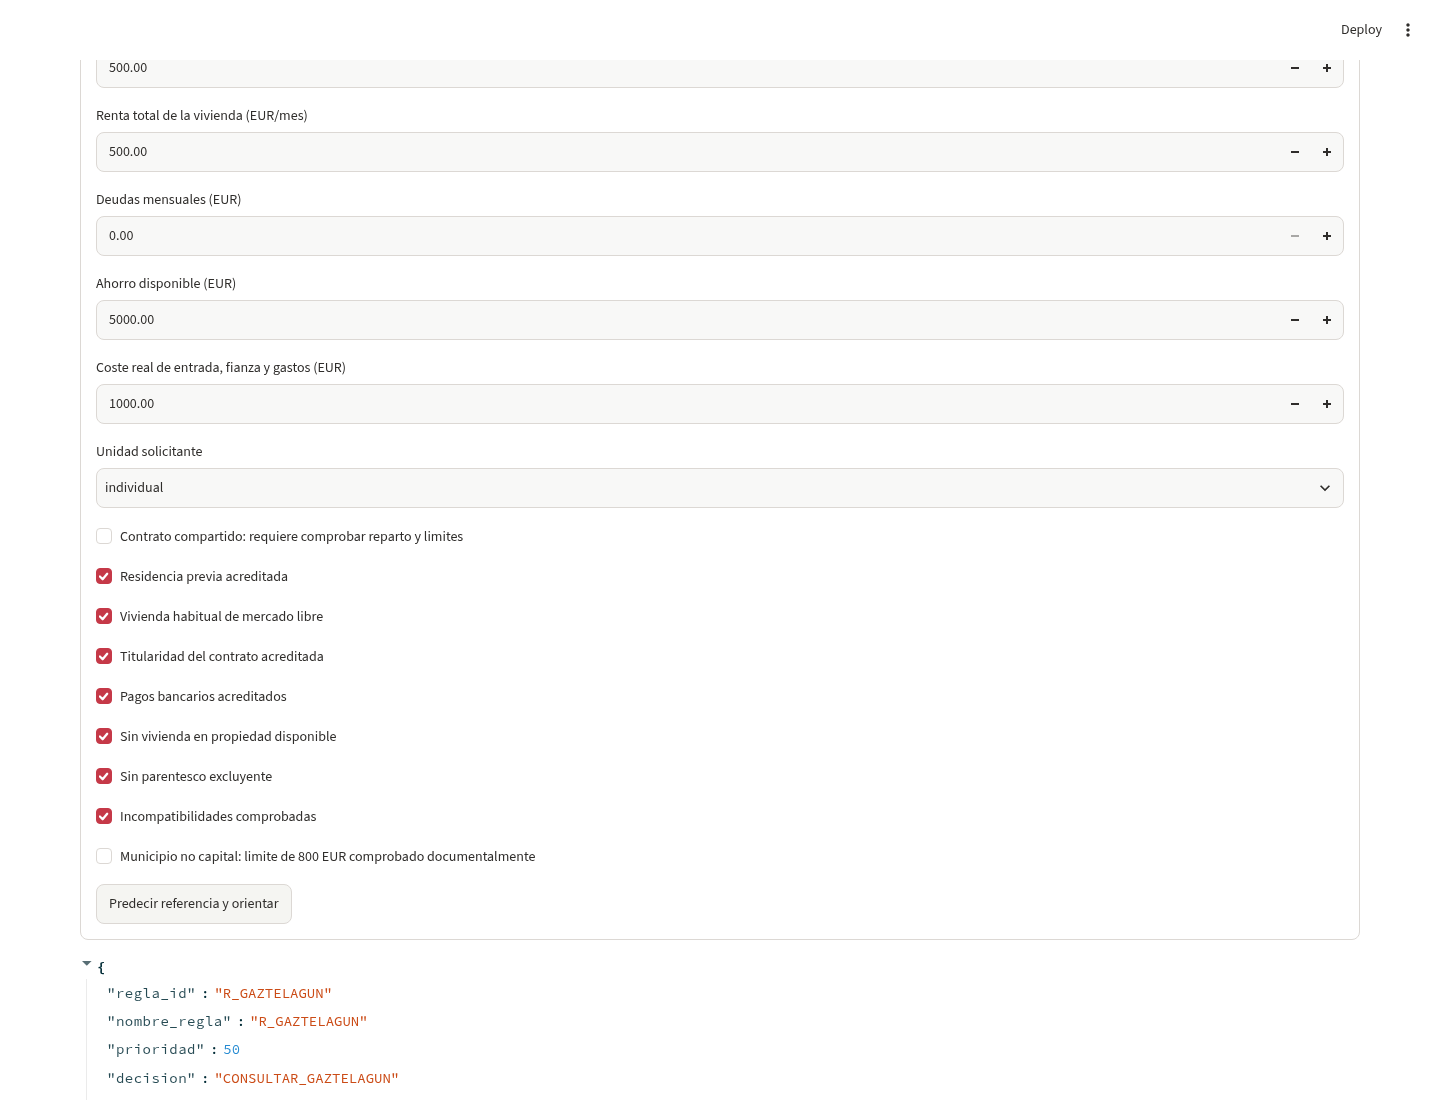
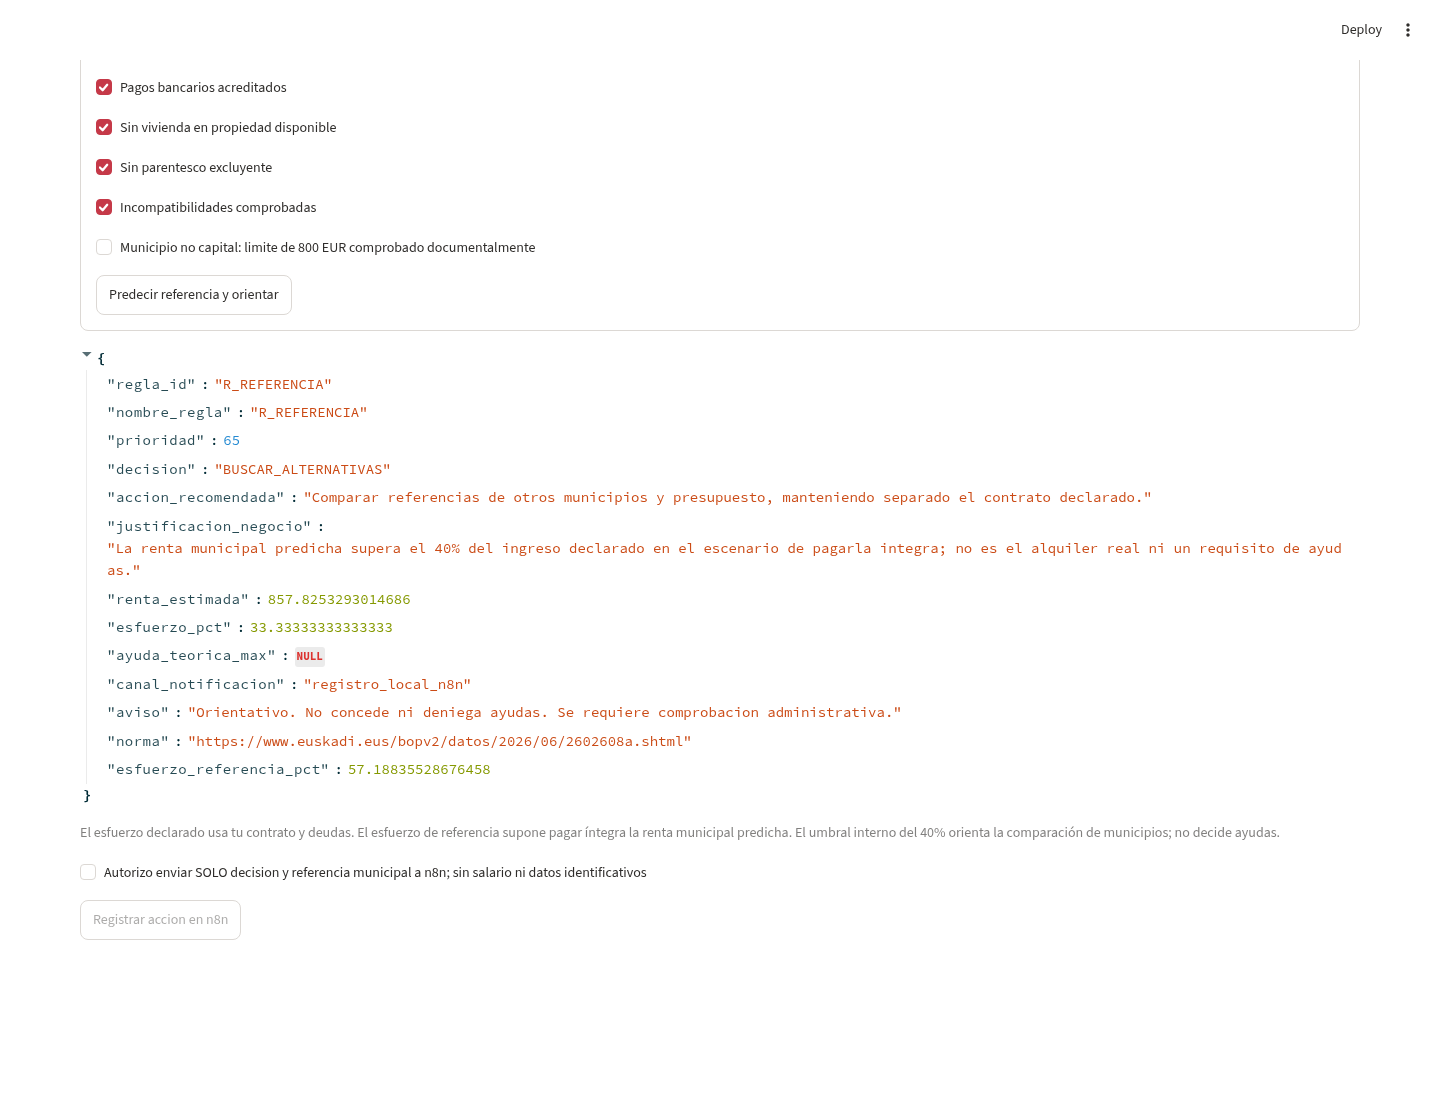
fix: leer capturas API en UTF-8 y conservar demostracion actual

diff --git a/scripts/capture_emal_api.py b/scripts/capture_emal_api.py
@@ -57,7 +57,7 @@ def capture(folder):
 
 def verified(folder):
     """Reinterpreta los bytes de API antes de transportar: falla ante alteraciones."""
-    folder=Path(folder);entries=json.loads((folder/'manifest.json').read_text())
+    folder=Path(folder);entries=json.loads((folder/'manifest.json').read_text(encoding='utf-8'))
     if {e['archivo'] for e in entries} != {'visor.html',*(c+'.json' for c in MUNICIPALITIES)} or len(entries)!=4:
         raise ValueError('Manifiesto incompleto')
     rows=[]
@@ -71,7 +71,7 @@ def verified(folder):
             if e['parametros']!=expected or not e['url'].startswith(API+'?'):
                 raise ValueError('Filtros API distintos de los declarados')
             rows.append({**parse(json.loads(raw),code),'procedencia':e})
-    if rows!=json.loads((folder/'rentas_api.json').read_text()):
+    if rows!=json.loads((folder/'rentas_api.json').read_text(encoding='utf-8')):
         raise ValueError('Normalizados distintos de los originales')
     return rows
 
